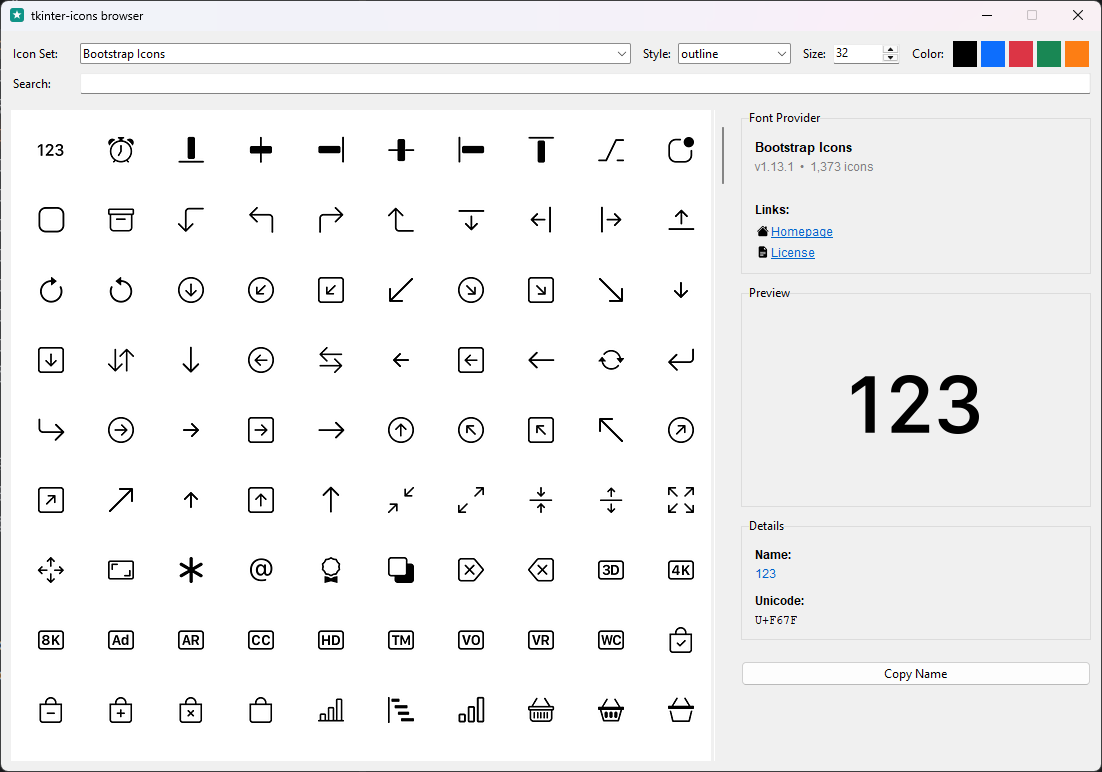
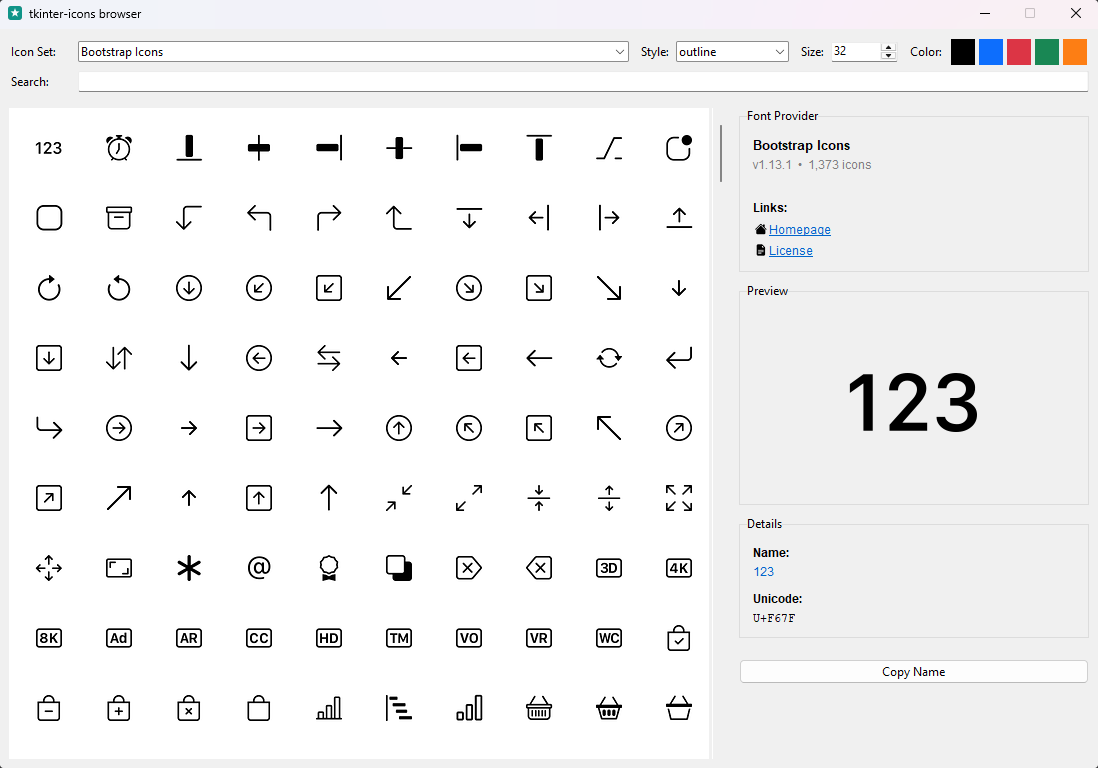
Even the framing across all six captures, and record the rest for review
Three captures still carried the native frame line the other three had just lost, which under the new CSS border would have shown as a dark ring inside it — most visibly on ttkbootstrap_light, where the line is dark and the window is not. The ttkbootstrap pair needs a throwaway environment and browser.png is not in the capture script at all, so the same two-pixel inset was applied to the committed PNGs instead. All six now begin with title-bar colour at the top and window colour at the bottom.

PLAN.md gains the decisions taken since it was last amended: bytes take their colour from sg.theme_* rather than a literal, the window icon is the one place the theme's foreground is wrong, the branch touches five unrelated docs pages on purpose, the captures trim two pixels because the CSS rounds the corners, and the hero image stopped labelling itself. Two weak spots go with them — the capture script cannot take all its shots in one process, and three images were cropped rather than retaken with nothing checking the two agree.

diff --git a/PLAN.md b/PLAN.md
@@ -20,6 +20,16 @@ Written after the work and after CI, before the review. Corrections and late dec
 
 **The docs teach `Icon.to_data()`, not the `render_data()` classmethod.** Owner's call, and the reason is consistency rather than taste: the same page already constructs icons for `IconButton(icon=...)`, so a classmethod for images would put two idioms on one page. `render_data` appears once, as a tip.
 
+**Bytes take their colour from PySimpleGUI, not from a literal.** `to_data()` cannot infer one — it has no widget, and `tkinter_icons` must not know PySimpleGUI exists — so the examples first hard-coded white, which is only right on a dark theme. They now read `sg.theme_text_color()` and `sg.theme_button_color_text()`, which need no window and are readable while the layout is still being written. The two are not interchangeable: under `DarkAmber`, text is `#fdcb52` and text on a button is `#000000`.
+
+**The window icon is the one place the theme's foreground is wrong.** A title bar and taskbar are drawn by the OS, not on the theme's background, so `sg.theme_text_color()` there produced a white icon invisible against a light title bar. The capture uses a colour picked to read on the desktop instead.
+
+**This branch touches five docs pages and three screenshots that have nothing to do with PySimpleGUI, deliberately.** The owner asked for the window-screenshot border treatment bootstack and ttkbootstrap use, and applying it to one capture out of six would read as a mistake — so `.window-screenshot` in `docs/_static/custom.css` is applied to quickstart, tkinter/ttk, both ttkbootstrap themes, the browser and the new one. The three retakeable captures were retaken with the trim below; the other three were cropped by the same two pixels after the fact, since they cannot be produced from this environment.
+
+**The captures trim two pixels, not more, because the CSS rounds the corners.** Windows 11 rounds a window while the rectangle DWM reports is square, so a raw capture holds desktop in each corner — but `.window-screenshot` rounds the image at 6px, which clips exactly that region. An earlier version trimmed five pixels to chase those corners and ate into the title bar for nothing. Verified by applying the CSS radius to the capture as a mask and looking at each corner at 6×.
+
+**The hero image is an application, not a diagram.** It captioned its own rows — "IconButton — icon beside text", "to_data() bytes — no deferral, no subclass" — which is teaching in a medium that cannot carry it, since bytes have no appearance. It is a small file browser now, and which bridge drew which icon is left to the prose.
+
 **A test that builds a PySimpleGUI window has to tear down more than the window.** PySimpleGUI keeps a hidden master root alive after `Window.close()`, along with `tkinter._default_root`. Leaving them breaks any later test that controls when a root exists — `TestTkLifecycle` failed exactly that way, and only when this file ran first.
 
 ---
@@ -70,4 +80,6 @@ PySimpleGUI is declarative: constructing `sg.Button` creates no Tk widget, so `e
 - **The idle trigger is asserted through its consequences** — attached by the end of `finalize`, geometry stable afterward — rather than by observing which callback fired. If PySimpleGUI ever stopped calling `update_idletasks` during startup, those tests would fail, which is the intent.
 - **Every claim about PySimpleGUI's internals was read off version 6.3 and nothing pins it.** That the packer never yields to the event loop while configuring an element, that `element.Widget` is assigned before the ttk style is applied, that `sg.theme()` cannot reach a live window — all true when measured, none asserted by a test that would fail if a future release changed them. The consequences are covered; the mechanisms are not.
 - **The `gui`-marked tests skip rather than fail when a second Tk interpreter cannot be built**, which is the Tk 8.6 limitation `CLAUDE.md` records. Locally that is one or two of them depending on ordering, so a green run does not guarantee every button test executed. `-rs` shows which.
+- **`capture_screenshots.py` cannot take all of its shots in one run.** Each builds its own Tk root in one process, which trips the Tk 8.6 second-interpreter limitation, so asking for three gave one success and two failures. The script reports which failed and carries on, so the risk is a stale image being left behind rather than a silent wrong one. Run them one at a time.
+- **Three captures were cropped rather than retaken.** The ttkbootstrap pair needs a throwaway environment and `browser.png` is not in the script at all, so the two-pixel trim was applied to the committed PNGs. That is arithmetically the same as capturing with it, but it is a different operation and nothing checks the two agree.
 - **`_ttk_parent_foreground` reads `Icon._parent_style_for`**, a private classmethod of another module. It is the only way to recover the style PySimpleGUI applied once `Icon.map` has derived a child from it, but it is a private coupling and would break silently if that helper changed.
